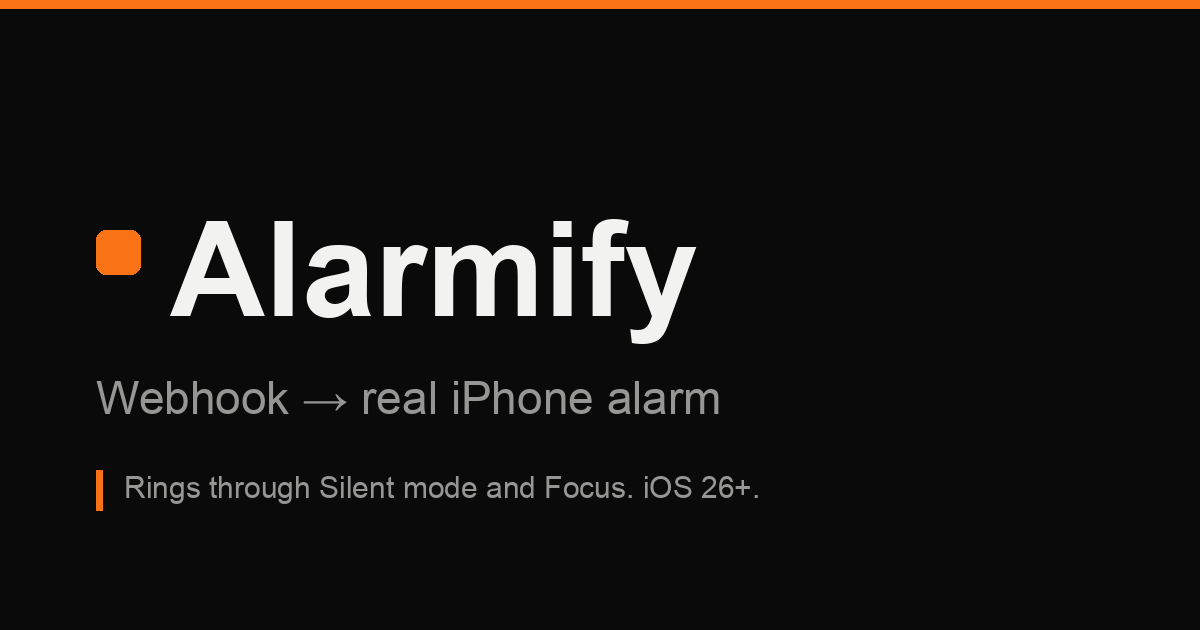
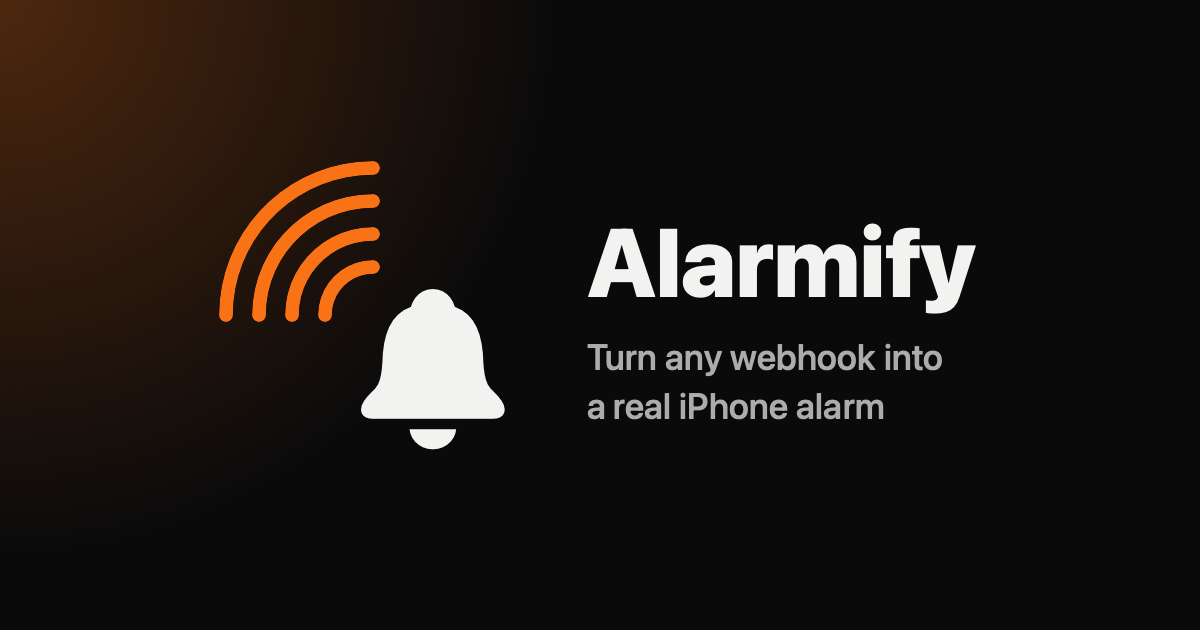
ヘッダークリエイティブ (header / search results × ja / en-US) と LP の OGP 画像を生成する
SwiftUI + ImageRenderer のジェネレータで、スクリーンショットと同じ配色トークン・1 枚目のコピー・アイコンと同モチーフのグリフ (シグナル + ベル) で描画する。
canvas と Art Safe Area は appstore-header-creative skill の fetch_template_spec.sh で 2026-09-02 に取得した Apple 公式テンプレートの実測値

Changed region(s): [[0.0, 0.0, 1.0, 0.7238], [0.0617, 0.754, 0.6167, 0.8143]]

diff --git a/scripts/generate_header_creative/HeaderCreativeGenerator.swift b/scripts/generate_header_creative/HeaderCreativeGenerator.swift
@@ -1,0 +1,249 @@
+import SwiftUI
+import ImageIO
+import UniformTypeIdentifiers
+
+// App Store creative assets (product page header / search results) と LP の OGP 画像を SwiftUI で描画して
+// PNG 出力するジェネレータ。macOS の swiftc でコンパイルして実行する (実行方法は同ディレクトリの
+// generate_header_creative.sh)。配色は AppStoreScreenshots/Sources/DesignTokens.swift を同時にコンパイルして共有する。
+//
+// canvas と Art Safe Area の値は Apple 公式テンプレート PSD の実測
+// (appstore-header-creative skill の fetch_template_spec.sh、2026-09-02 取得) が根拠。
+// キーコンテンツ (シグナル + ベル + コピー) は Art Safe Area 内に収める。
+
+/// 生成対象のアセット種別。canvas サイズと Art Safe Area は Apple 公式テンプレート PSD の実測値
+enum CreativeAssetType: String, CaseIterable {
+    case productPageHeader = "product_page_header"
+    case searchResults = "search_results"
+
+    /// テンプレート PSD の作業領域サイズ (px)
+    var canvasSize: CGSize {
+        switch self {
+        case .productPageHeader: CGSize(width: 3840, height: 1646)
+        case .searchResults: CGSize(width: 3840, height: 2560)
+        }
+    }
+
+    /// キーコンテンツを収める Art Safe Area (px)。テンプレート PSD の同名レイヤーの実測座標
+    var artSafeArea: CGRect {
+        switch self {
+        case .productPageHeader: CGRect(x: 1097, y: 493, width: 2743 - 1097, height: 1154 - 493)
+        case .searchResults: CGRect(x: 836, y: 765, width: 3004 - 836, height: 1795 - 765)
+        }
+    }
+
+    /// コピーの文字サイズ (px)。各言語の最長行 + グリフが Art Safe Area の幅 (header 1646px / search 2168px) に
+    /// 収まるように選び、--safe-area-guide の目視で検証した値
+    func copyFontSize(for language: CreativeAssetLanguage) -> CGFloat {
+        switch (self, language) {
+        case (.productPageHeader, .ja): 108
+        case (.productPageHeader, .enUS): 110
+        case (.searchResults, .ja): 140
+        case (.searchResults, .enUS): 144
+        }
+    }
+}
+
+/// 生成する言語。App Store のローカライズ言語 (ja / en-US) に対応する
+enum CreativeAssetLanguage: String, CaseIterable {
+    case ja
+    case enUS = "en-US"
+
+    /// 訴求コピー。SSOT は AppStoreScreenshots/Localizable.xcstrings の "Webhooks become\nreal alarms"
+    /// (スクリーンショット 1 枚目のキャッチコピー) で、header はスクリーンショットと同じ 1 つのアイデアで統一する。
+    /// 折り返し位置を制御するため明示的な改行を入れて転記する
+    var copyText: String {
+        switch self {
+        case .ja: "Webhook を\n本物のアラームに"
+        case .enUS: "Webhooks become\nreal alarms"
+        }
+    }
+}
+
+/// アプリアイコンと同モチーフのグリフ (橙のシグナルのアーク 4 本 + 紙色のベル)。
+/// 「届いた webhook がベルを鳴らす」を、文字なしで伝える視覚要素。
+/// アークはベルの左上の肩を中心にした四分円で、アイコン (AppIcon.png) と同じ配置比率にする
+struct SignalBellGlyph: View {
+    /// グリフの一辺 (px)。正方形の領域に描く
+    let size: CGFloat
+
+    var body: some View {
+        ZStack {
+            ForEach(0..<4, id: \.self) { index in
+                let radius = size * (0.16 + CGFloat(index) * 0.11)
+                Circle()
+                    // Circle のパスは 3 時から時計回りのため、0.5〜0.75 が左上の四分円になる
+                    .trim(from: 0.5, to: 0.75)
+                    .stroke(Color.signal, style: StrokeStyle(lineWidth: size * 0.045, lineCap: .round))
+                    .frame(width: radius * 2, height: radius * 2)
+                    .position(x: size * 0.50, y: size * 0.50)
+            }
+            Image(systemName: "bell.fill")
+                .font(.system(size: size * 0.52, weight: .regular))
+                .foregroundStyle(Color.paper)
+                .position(x: size * 0.70, y: size * 0.68)
+        }
+        .frame(width: size, height: size)
+    }
+}
+
+/// creative asset の 1 枚分のビュー。
+/// 夜色の地 + 左上のシグナルの微光 (スクリーンショットと同モチーフ) + グリフ + コピーで構成し、
+/// スクリーンショット基盤 (AppStoreScreenshots) と配色・タイポグラフィを揃える
+struct CreativeAssetView: View {
+    /// 生成対象のアセット種別
+    let assetType: CreativeAssetType
+    /// 生成する言語
+    let language: CreativeAssetLanguage
+    /// Art Safe Area を赤枠で重ねる検証用フラグ (成果物では false)
+    let showsSafeAreaGuide: Bool
+
+    var body: some View {
+        let fontSize = assetType.copyFontSize(for: language)
+        ZStack {
+            Color.night
+
+            signalGlow
+
+            HStack(alignment: .center, spacing: fontSize * 0.7) {
+                SignalBellGlyph(size: fontSize * 2.4)
+                Text(verbatim: language.copyText)
+                    // スクリーンショット (40pt heavy) と同じ極太ウェイトで統一する
+                    .font(.system(size: fontSize, weight: .heavy))
+                    .lineSpacing(fontSize * 0.18)
+                    .foregroundStyle(Color.paper)
+                    .multilineTextAlignment(.leading)
+                    .fixedSize()
+            }
+            // キーコンテンツを Art Safe Area の中央に置く (canvas 中央と Safe Area 中央は一致する)
+
+            if showsSafeAreaGuide {
+                safeAreaGuide
+            }
+        }
+        .frame(width: assetType.canvasSize.width, height: assetType.canvasSize.height)
+    }
+
+    /// スクリーンショットの AppStoreScreenshotSignalLayout と同じ、左上から差し込むシグナルの微光
+    private var signalGlow: some View {
+        RadialGradient(
+            colors: [Color.signal.opacity(0.28), Color.signal.opacity(0)],
+            center: .topLeading,
+            startRadius: 0,
+            endRadius: assetType.canvasSize.height * 0.9
+        )
+    }
+
+    /// Art Safe Area の検証用赤枠
+    private var safeAreaGuide: some View {
+        Rectangle()
+            .stroke(Color.red, lineWidth: 4)
+            .frame(width: assetType.artSafeArea.width, height: assetType.artSafeArea.height)
+            .position(x: assetType.artSafeArea.midX, y: assetType.artSafeArea.midY)
+    }
+}
+
+/// LP (docs/index.html) の OGP 画像 (1200×630)。og:image は英語のみ (og:locale en_US)。
+/// header と同じグリフ + ワードマーク + LP の見出しと同じ一言で構成する
+struct OpenGraphImageView: View {
+    static let canvasSize = CGSize(width: 1200, height: 630)
+
+    var body: some View {
+        ZStack {
+            Color.night
+
+            RadialGradient(
+                colors: [Color.signal.opacity(0.28), Color.signal.opacity(0)],
+                center: .topLeading,
+                startRadius: 0,
+                endRadius: 560
+            )
+
+            HStack(alignment: .center, spacing: 64) {
+                SignalBellGlyph(size: 300)
+                VStack(alignment: .leading, spacing: 18) {
+                    Text(verbatim: "Alarmify")
+                        .font(.system(size: 96, weight: .heavy))
+                        .foregroundStyle(Color.paper)
+                    // LP の <title> と同じ一言 (docs/index.html)
+                    Text(verbatim: "Turn any webhook into\na real iPhone alarm")
+                        .font(.system(size: 36, weight: .medium))
+                        .lineSpacing(6)
+                        .foregroundStyle(Color.paper.opacity(0.7))
+                        .fixedSize()
+                }
+            }
+        }
+        .frame(width: Self.canvasSize.width, height: Self.canvasSize.height)
+    }
+}
+
+/// CGImage を不透明 (alpha なし) の PNG として書き出す。書き出しに失敗した場合は false を返す。
+/// ImageRenderer の出力は alpha 付きだが、App Store creative assets は透過の可否が未公表のため
+/// (appstore-header-creative skill references/asset-spec.md「未確定事項」)、拒否リスクを避けて alpha を落とす
+func writePNG(cgImage: CGImage, url: URL) -> Bool {
+    guard let opaqueContext = CGContext(
+        data: nil,
+        width: cgImage.width,
+        height: cgImage.height,
+        bitsPerComponent: 8,
+        bytesPerRow: 0,
+        space: CGColorSpace(name: CGColorSpace.sRGB)!,
+        bitmapInfo: CGImageAlphaInfo.noneSkipLast.rawValue
+    ) else {
+        return false
+    }
+    opaqueContext.draw(cgImage, in: CGRect(x: 0, y: 0, width: cgImage.width, height: cgImage.height))
+    guard let opaqueImage = opaqueContext.makeImage(),
+          let destination = CGImageDestinationCreateWithURL(url as CFURL, UTType.png.identifier as CFString, 1, nil) else {
+        return false
+    }
+    CGImageDestinationAddImage(destination, opaqueImage, nil)
+    return CGImageDestinationFinalize(destination)
+}
+
+/// SwiftUI ビューを canvas 実寸で描画して PNG に書き出す。失敗時はメッセージを出して終了する
+@MainActor
+func render<Content: View>(_ content: Content, to url: URL, label: String) {
+    let renderer = ImageRenderer(content: content)
+    // canvas 実寸 (px) をポイント単位で指定しているため、scale 1 で 1pt = 1px として出力する
+    renderer.scale = 1
+    guard let cgImage = renderer.cgImage else {
+        FileHandle.standardError.write(Data("error: \(label) の描画に失敗した\n".utf8))
+        exit(1)
+    }
+    try? FileManager.default.createDirectory(at: url.deletingLastPathComponent(), withIntermediateDirectories: true)
+    guard writePNG(cgImage: cgImage, url: url) else {
+        FileHandle.standardError.write(Data("error: \(url.path) の書き出しに失敗した\n".utf8))
+        exit(1)
+    }
+    print("generated: \(url.path) (\(cgImage.width)x\(cgImage.height))")
+}
+
+/// 全アセット (種別 x 言語) と OGP 画像を出力するエントリポイント。
+/// 同名ファイルへの上書き出力のため再実行しても結果は変わらない (冪等)
+@main
+struct HeaderCreativeGenerator {
+    @MainActor
+    static func main() {
+        let arguments = CommandLine.arguments
+        // フラグ形の値 (--safe-area-guide 等) を出力先として誤解釈しないよう拒否する
+        guard arguments.count >= 3, !arguments[1].hasPrefix("--"), !arguments[2].hasPrefix("--") else {
+            FileHandle.standardError.write(Data("usage: \(arguments[0]) <creative assets の出力ディレクトリ> <og.png の出力パス> [--safe-area-guide]\n".utf8))
+            exit(2)
+        }
+        let outputDirectoryURL = URL(fileURLWithPath: arguments[1], isDirectory: true)
+        let openGraphURL = URL(fileURLWithPath: arguments[2])
+        let showsSafeAreaGuide = arguments.contains("--safe-area-guide")
+
+        for assetType in CreativeAssetType.allCases {
+            for language in CreativeAssetLanguage.allCases {
+                render(
+                    CreativeAssetView(assetType: assetType, language: language, showsSafeAreaGuide: showsSafeAreaGuide),
+                    to: outputDirectoryURL.appendingPathComponent("\(assetType.rawValue)_\(language.rawValue).png"),
+                    label: "\(assetType.rawValue) \(language.rawValue)"
+                )
+            }
+        }
+        render(OpenGraphImageView(), to: openGraphURL, label: "og")
+    }
+}
